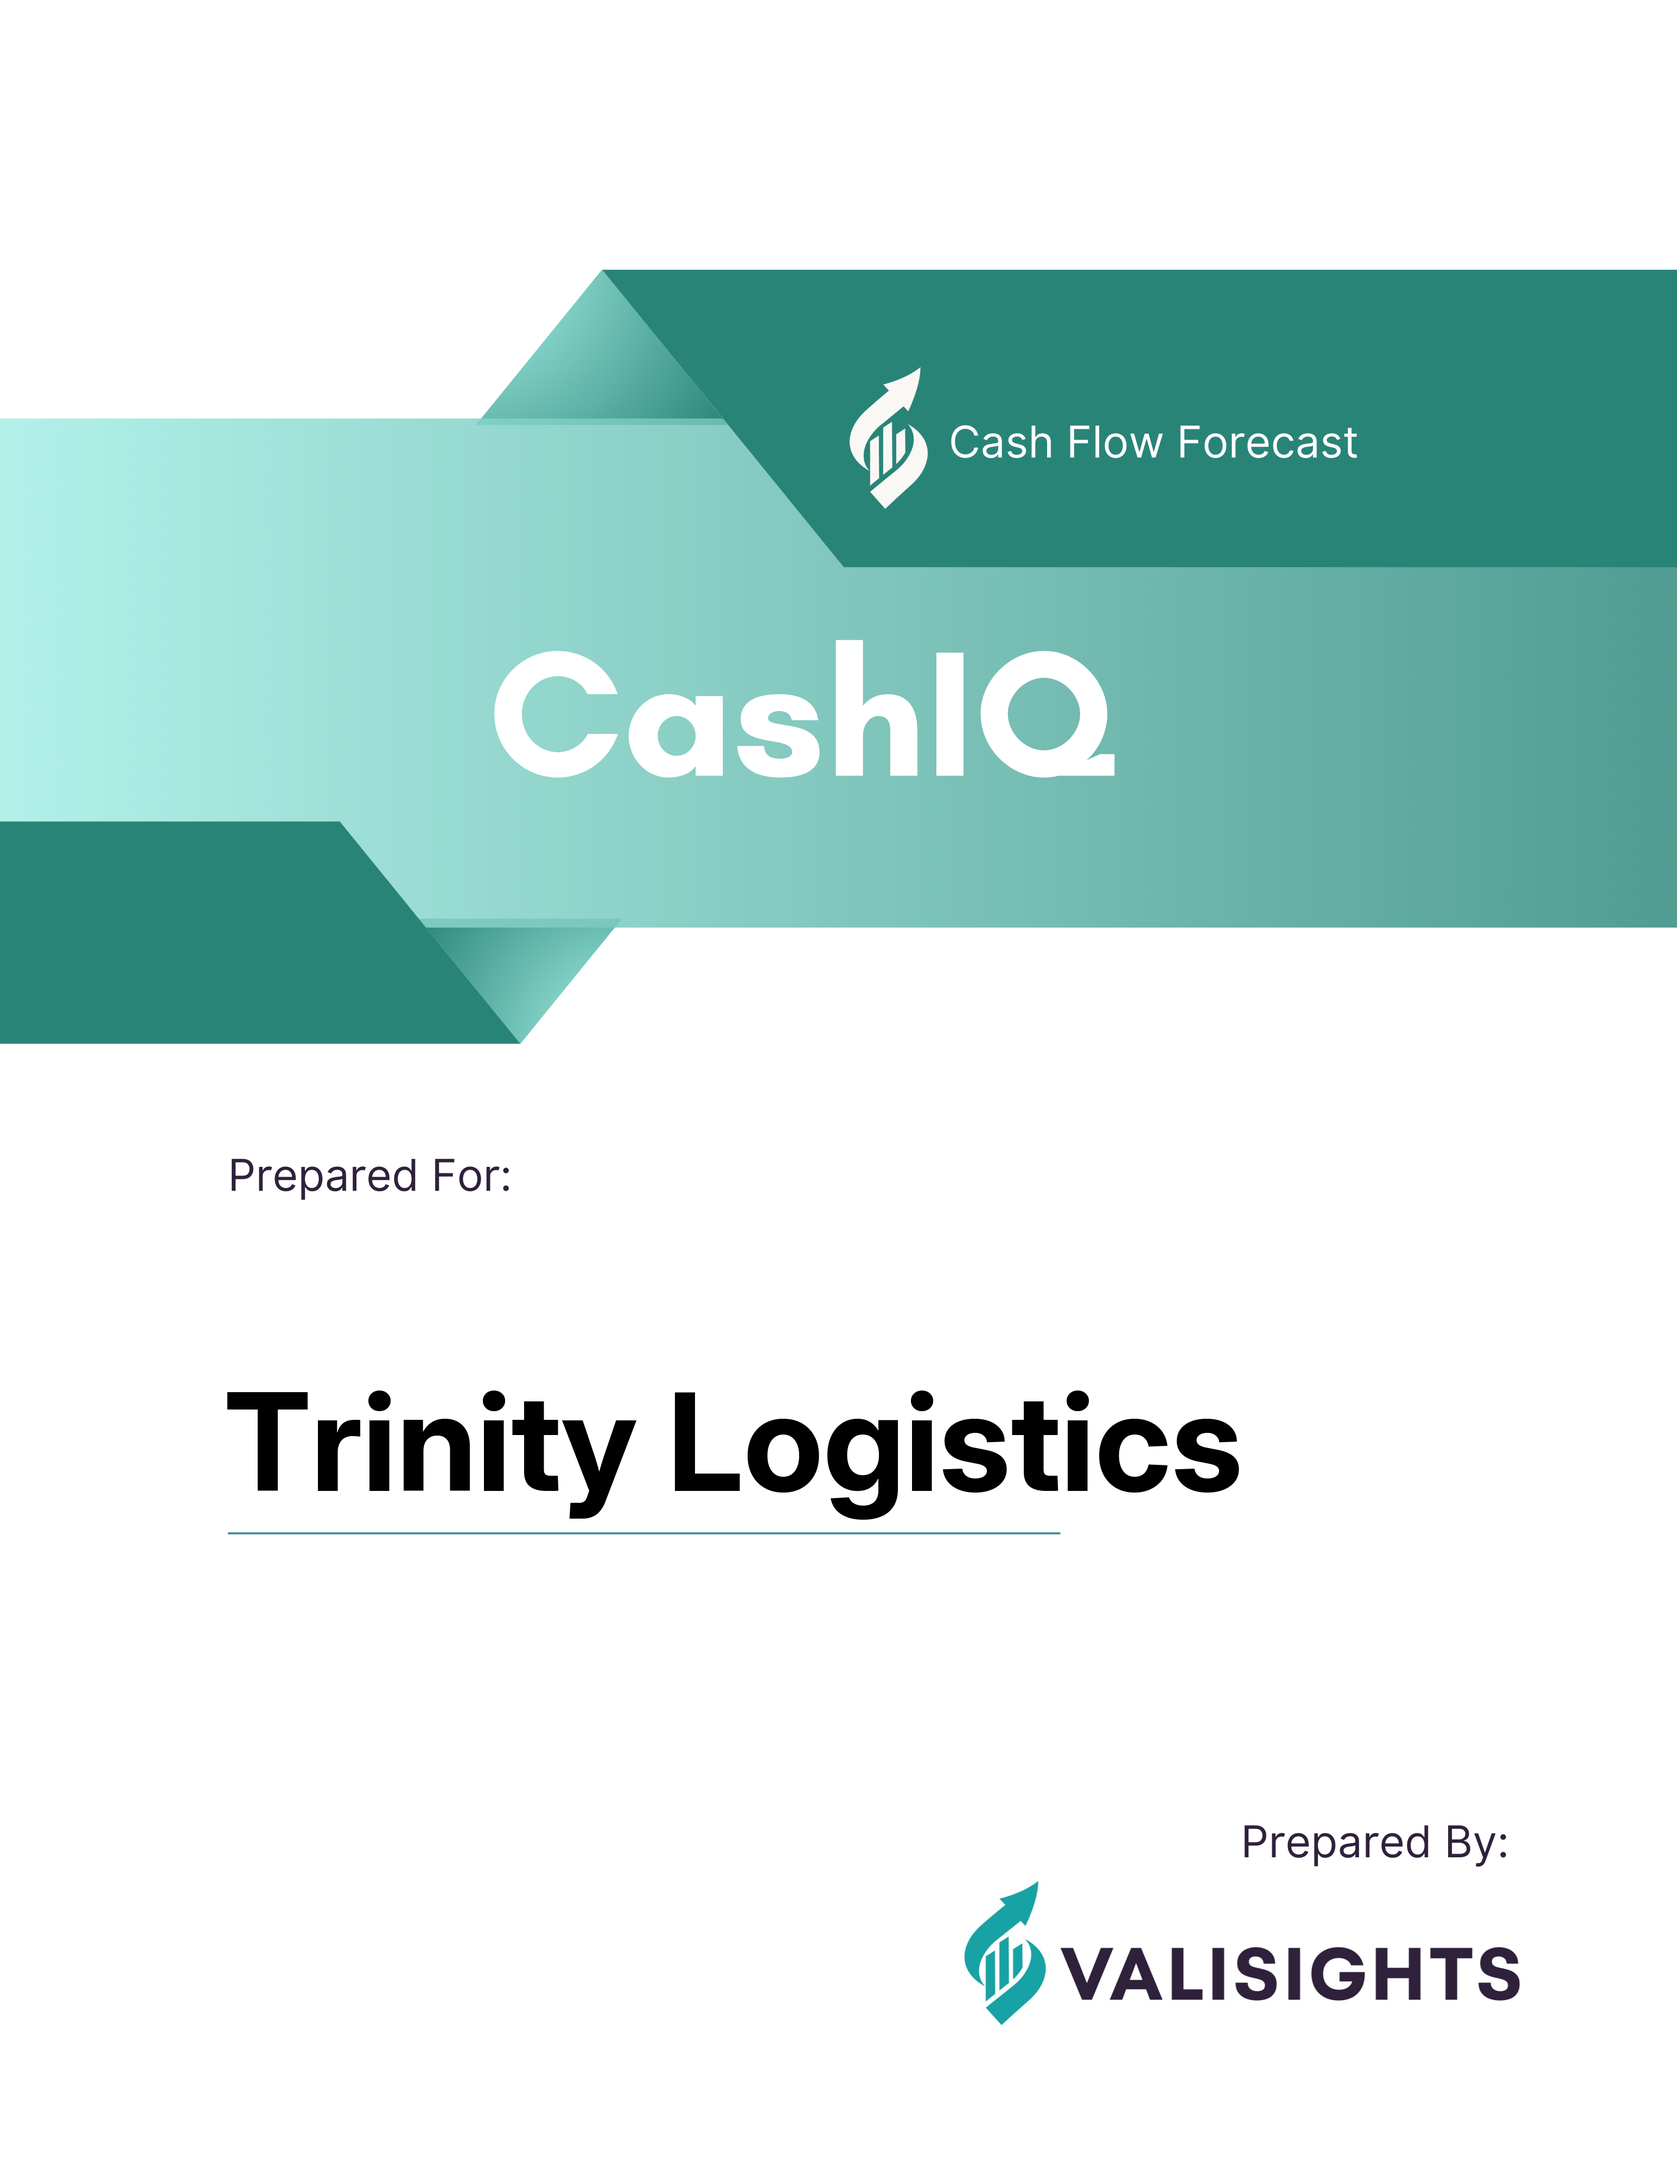
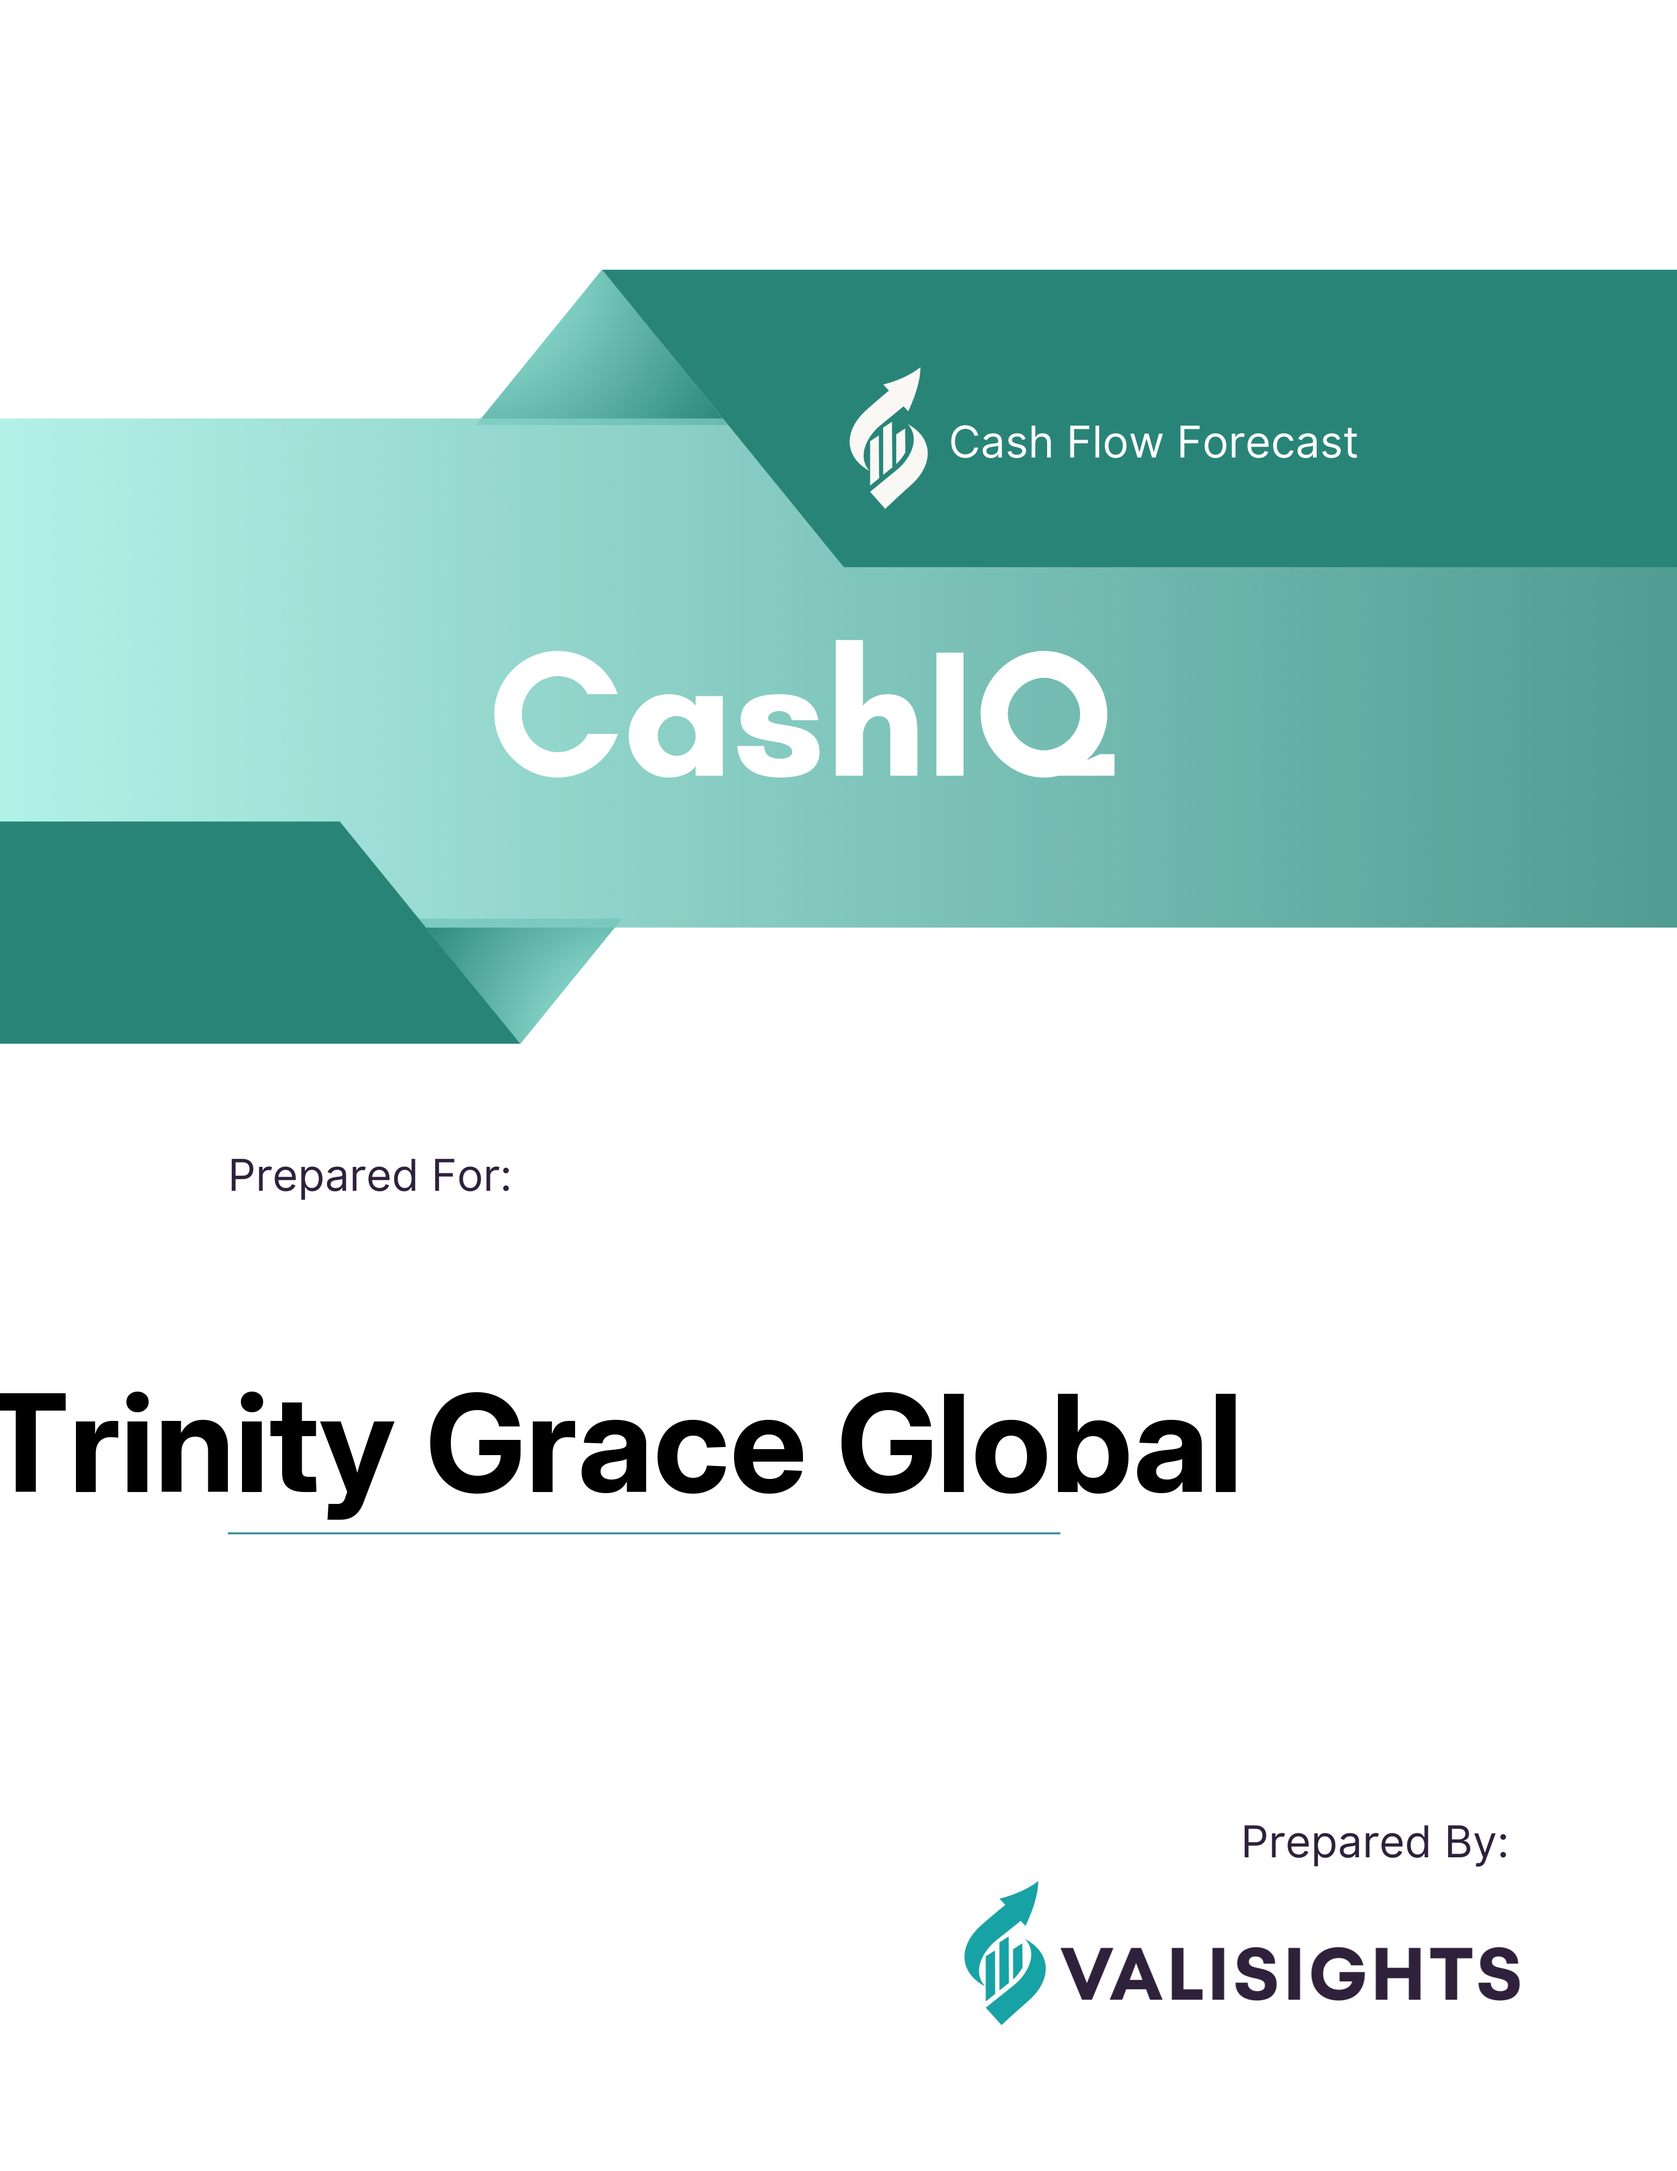
Made UI better, added client name as input and grouped CC trcash transactions byt card and not split account for the cashiq

Changed region(s): [[0.0, 0.625, 0.7454, 0.7188]]

diff --git a/main.py b/main.py
@@ -35,50 +35,58 @@ if "excel_bytes" not in st.session_state:
 if "summary_bytes" not in st.session_state:
     st.session_state.summary_bytes = None
 
-st.header("Cash IQ")
-
-client = st.selectbox("Select the client", ["Trinity", "Parisi", "Luna", "Strivewell", "Continuum", "SupafitGrow", "Gamechanger"])
-
 coa_file = None
 previous_cashiq_file = None
 ar_file = None
 vendor_file = None
 
-initial_cash_balance = st.number_input("Enter initial cash balance", min_value=0.0)
+st.header("Cash IQ", text_alignment="center")
 
-with st.spinner("Retrieving saved cash floor...", show_time=True):
-    saved_cash_floor = retrieve_client_data(client)    
-cash_floor = st.number_input("Enter cash floor", value=saved_cash_floor, min_value=0.0)
+col1, col2 = st.columns(2, gap="xlarge")
 
-if client in ["Trinity", "Strivewell", "Continuum", "SupafitGrow", "Gamechanger"]:
+with col2:
 
-    coa_file = st.file_uploader(
-        "Upload COA file", type=["xlsx", "xls"]
+    client = st.selectbox("Select the client", ["Trinity", "Parisi", "Luna", "Strivewell", "Continuum", "SupafitGrow", "Gamechanger"])
+
+    initial_cash_balance = st.number_input("Enter initial cash balance", min_value=0.0)
+
+    date_strt = str(st.date_input("Select projection start date")).replace("/", "-")
+
+with col1:
+
+    if client in ["Trinity", "Strivewell", "Continuum", "SupafitGrow", "Gamechanger"]:
+
+        coa_file = st.file_uploader(
+            "Upload COA file", type=["xlsx", "xls"]
+        )
+
+    if client == "Luna":
+
+        coa_file = st.file_uploader(
+            "Upload COA file", type=["xlsx", "xls"]
+        )
+        
+        ar_file = st.file_uploader(
+            "Upload AR Aging file", type=["xlsx", "xls"]
+        )
+
+        vendor_file = st.file_uploader(
+            "Upload Balance sheet file (optional)", type=["xlsx", "xls"]
+        )
+        
+    gl_file = st.file_uploader(
+        "Upload GL file", type=["xlsx", "xls"]
     )
 
-if client == "Luna":
-
-    coa_file = st.file_uploader(
-        "Upload COA file", type=["xlsx", "xls"]
-    )
-    
-    ar_file = st.file_uploader(
-        "Upload AR Aging file", type=["xlsx", "xls"]
+    previous_cashiq_file = st.file_uploader(
+        "Upload previous Cash IQ file", type=["xlsx", "xls"]
     )
 
-    vendor_file = st.file_uploader(
-        "Upload Balance sheet file (optional)", type=["xlsx", "xls"]
-    )
-    
-gl_file = st.file_uploader(
-    "Upload GL file", type=["xlsx", "xls"]
-)
+with col2:
+    with st.spinner("Retrieving saved cash floor...", show_time=True):
+        saved_cash_floor = retrieve_client_data(client)    
+    cash_floor = st.number_input("Enter cash floor", value=saved_cash_floor, min_value=0.0)
 
-previous_cashiq_file = st.file_uploader(
-    "Upload previous Cash IQ file", type=["xlsx", "xls"]
-)
-
-date_strt = str(st.date_input("Select projection start date")).replace("/", "-")
 
 if client == "Parisi":
     condition = gl_file and date_strt
@@ -125,10 +133,24 @@ if st.session_state.excel_bytes is not None:
         mime="application/vnd.openxmlformats-officedocument.spreadsheetml.sheet",
         icon=":material/download:",
     )
+
+    official_client_name_mapping = {
+        "Trinity": "Trinity Logistics", 
+        "Parisi": "Parisi", 
+        "Luna": "Luna Locums", 
+        "Strivewell": "Strivewell", 
+        "Continuum": "Continuum", 
+        "SupafitGrow": "SupafitGrow", 
+        "Gamechanger": "Gamechanger"
+    }
+
+    client_name = official_client_name_mapping.get(client, client)
+
+    client_name = st.text_input("Client Name for summary", value=client_name)
     summary_button = st.button("Get summary")
     if summary_button:
         with st.spinner("Getting AI summary...", show_time=True):
-            st.session_state.summary_bytes = get_summary(client, date_strt, output_file_name)
+            st.session_state.summary_bytes = get_summary(client_name, date_strt, output_file_name)
 
     if st.session_state.summary_bytes is not None:
 

diff --git a/src/ai_summary.py b/src/ai_summary.py
@@ -93,7 +93,7 @@ def create_front_page_image(client_name):
     text_width, text_height = draw.textbbox((0, 0), client_name, font=font)[2:]
 
     position = (
-        (bg_width - text_width - 800),
+        (420),
         (bg_height - text_height - 1200)
     )
 
@@ -105,7 +105,7 @@ def create_front_page_image(client_name):
     background.save(front_page_path)
     return front_page_path
 
-def turn_summary_into_word_doc(client, summary_json):
+def turn_summary_into_word_doc(client_name, summary_json):
 
     summary_path = "cash_iq_summary.docx"
 
@@ -122,18 +122,6 @@ def turn_summary_into_word_doc(client, summary_json):
     section.right_margin = 0
     section.top_margin = 0
     section.bottom_margin = 0
-
-    official_client_name_mapping = {
-        "Trinity": "Trinity Logistics", 
-        "Parisi": "Parisi", 
-        "Luna": "Luna Locums", 
-        "Strivewell": "Strivewell", 
-        "Continuum": "Continuum", 
-        "SupafitGrow": "SupafitGrow", 
-        "Gamechanger": "Gamechanger"
-    }
-
-    client_name = official_client_name_mapping.get(client, client)
 
     front_page_path = create_front_page_image(client_name)
 
@@ -228,7 +216,7 @@ def turn_summary_into_word_doc(client, summary_json):
     return summary_path
 
 
-def get_summary(client, date, OUTPUT_XLSX):
+def get_summary(client_name, date, OUTPUT_XLSX):
     # Option 1: records format (most common)
 
     projection_df = pd.read_excel(OUTPUT_XLSX, sheet_name="Projections (Table)")
@@ -250,7 +238,7 @@ def get_summary(client, date, OUTPUT_XLSX):
     new_summary_json["Summary"] = summary_json["summary"]
     new_summary_json["Insights and Suggestions"] = summary_json["insights_suggestions"]
 
-    summary_path = turn_summary_into_word_doc(client, new_summary_json)
+    summary_path = turn_summary_into_word_doc(client_name, new_summary_json)
 
     with open(summary_path, "rb") as f:
         summary_bytes = f.read()

diff --git a/src/trinity/credit_card.py b/src/trinity/credit_card.py
@@ -29,7 +29,7 @@ def get_cc_debt_history(cc_spend_txn, asof_date, PROJ_WEEK1_START, CC_SPEND_TS_W
     cc_spend_hist = cc_spend_txn[(cc_spend_txn["date"] >= cc_spend_hist_start) & (cc_spend_txn["date"] <= asof_date)].copy()
 
     # category = split_account (expense accounts etc.)
-    cc_spend_hist["cat"] = cc_spend_hist["split_account"].fillna("Uncategorized")
+    cc_spend_hist["cat"] = cc_spend_hist["account_name"].fillna("Uncategorized")
 
     # weekly totals per category across ALL CC accounts
     cc_spend_hist["week_start"] = monday_week_start(cc_spend_hist["date"])
@@ -198,7 +198,7 @@ def allocate_payments(cc_spend_proj_cat, cc_spend_cat_pivot_top, payment_event_d
 
         # Add rows for each category
         for cat, share in shares.items():
-            line = (f"CC Payment - {cat}", "Credit Card Payment", "")
+            line = (cat, "Credit Card Payment", "")
             if line not in cc_payment_alloc.index:
                 cc_payment_alloc.loc[line, :] = 0.0
             cc_payment_alloc.loc[line, pay_week] += -float(stmt_amt * share)  # signed cash outflow

diff --git a/tests/unit_test.py b/tests/unit_test.py
@@ -1,5 +1,6 @@
 from src.classify_transactions import get_classifications
-
+from src.ai_summary import get_summary
+    
 
 #--------------------------------------------------
 #        Test Inflows/Outflows Classification
@@ -31,5 +32,5 @@ Dues & subscription
 """
 
 # Real unit tests coming soon!
-def tesT_outflows_classification():
-    assert True
+#def tesT_outflows_classification():
+#    assert True
